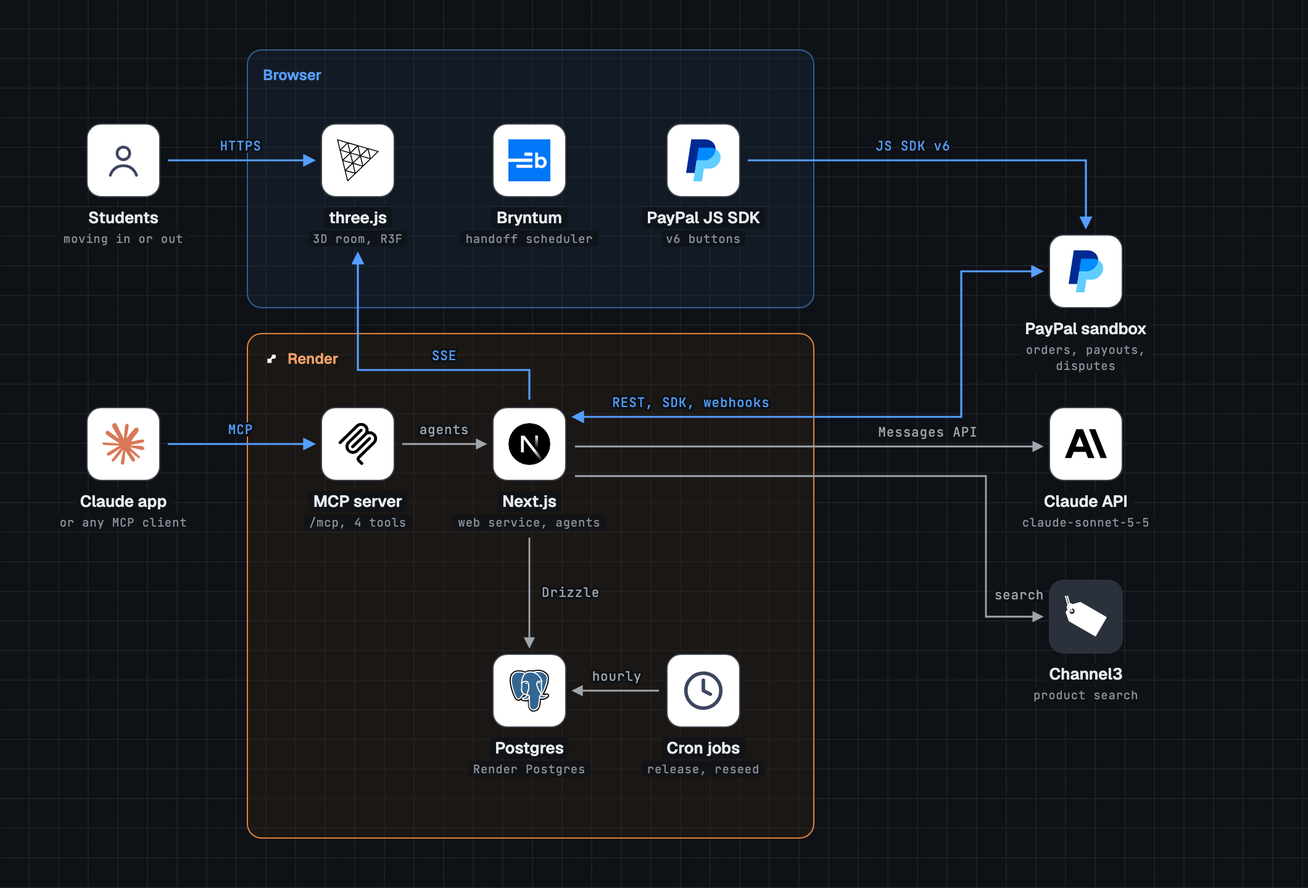
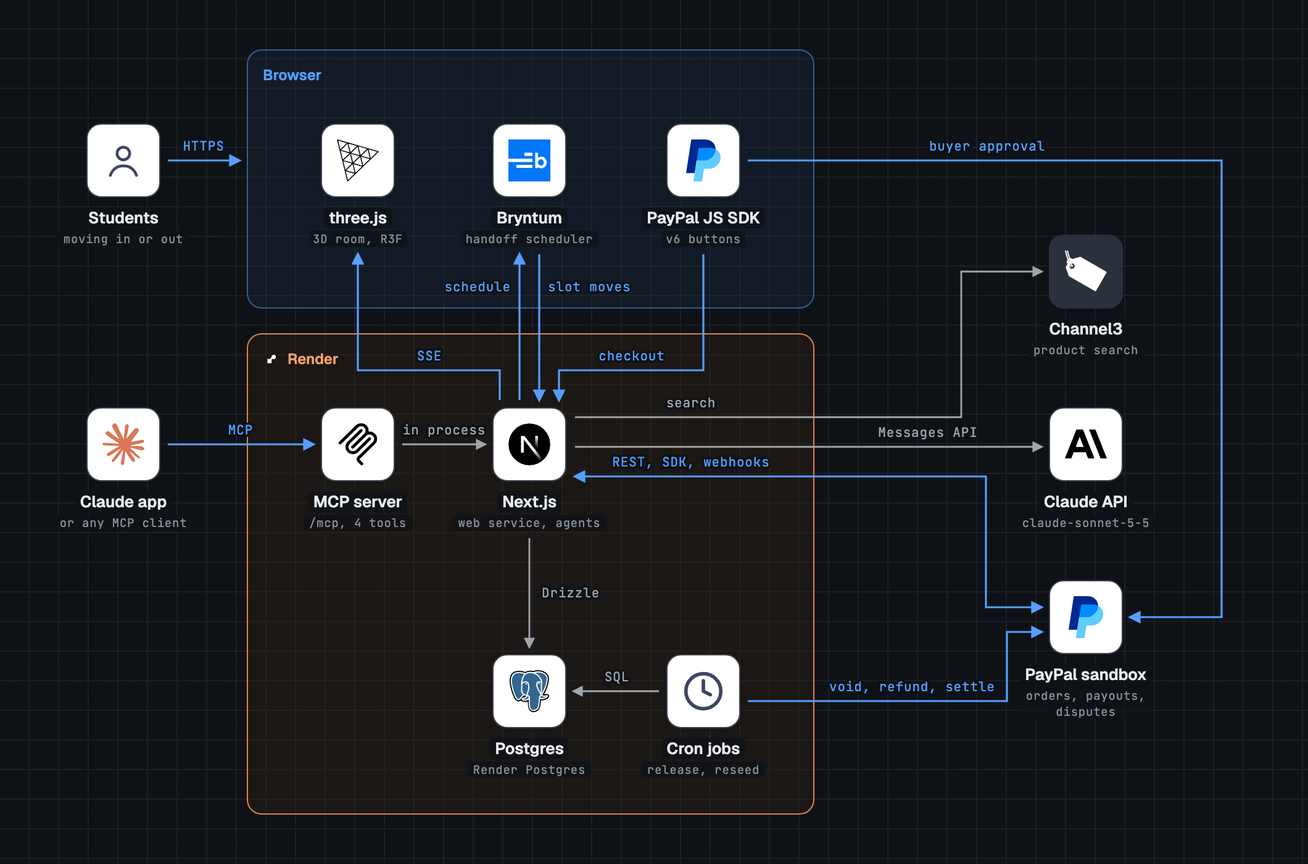
Tighten the README and redraw the stack diagram from the code

diff --git a/README.md b/README.md
@@ -2,11 +2,11 @@
 
 Turning move-out season into move-in opportunities.
 
-Roomover is a campus marketplace that passes furniture and dorm essentials from students who move out at the end of a term to the students who move in next. AI agents built on Anthropic's Claude models furnish the arriving student's room in 3D and negotiate with each seller's agent. One approval in PayPal pays every seller, PayPal holds the money until a photo check at handoff, and PayPal Payouts then pays each seller their share.
+Roomover is a campus marketplace that passes furniture and dorm essentials from students who move out at the end of a term to the students who move in next, even when the two never share a day on campus. AI agents built on Anthropic's Claude models furnish the arriving student's room in 3D and negotiate with each seller's agent, and PayPal holds the student's one payment through a photo check at handoff before PayPal Payouts pays every seller.
 
 <picture>
   <source media="(prefers-color-scheme: dark)" srcset="docs/stack-dark.png">
-  <img alt="Roomover architecture" src="docs/stack-light.png">
+  <img alt="Roomover architecture. Students use the browser, where three.js draws the 3D room from server sent events, the Bryntum schedule reads slots from Next.js and posts slot moves back, and the PayPal JS SDK buttons call Next.js for checkout and send the buyer's approval to PayPal. The Claude app or any MCP client reaches the MCP server, which runs inside the Next.js service on Render. Next.js calls Channel3 search, the Claude Messages API, and PayPal through REST, the Server SDK, and webhooks, and stores everything in Render Postgres. Two Render cron jobs write to Postgres, and the release job voids, refunds, and settles through PayPal." src="docs/stack-light.png">
 </picture>
 
 ## Links
@@ -17,6 +17,7 @@ Roomover is a campus marketplace that passes furniture and dorm essentials from 
 | Demo video (YouTube) | **VIDEO LINK GOES HERE AFTER UPLOAD** |
 | Fastest path for judges | [Four steps](#fastest-path-for-judges) |
 | Test accounts for judges | [Test accounts](#test-accounts-for-judges) |
+| Proof on the PayPal sandbox | [Real sandbox IDs](#real-sandbox-ids) |
 | Model Context Protocol (MCP) server for AI assistants | `https://roomover.onrender.com/mcp` |
 
 ## The problem
@@ -37,7 +38,7 @@ xychart-beta
     bar [16.2, 44, 250]
 ```
 
-Campus resale apps already exist, and they all depend on the buyer and the seller meeting in person to swap the item and the money. The student who leaves in May and the student who arrives in late summer are never on campus at the same time, so most of this supply never reaches its next owner. Roomover closes that gap with PayPal. The arriving student pays when the plan is ready, PayPal holds the money across the gap, and each seller gets paid only after the item passes a photo check at handoff.
+Campus resale apps already exist, and they all depend on the buyer and the seller meeting in person to swap the item and the money. The student who leaves in May and the student who arrives in late summer are never on campus at the same time, so most of this supply never reaches its next owner. Roomover bridges that gap with PayPal. The arriving student pays once when the room is planned, PayPal holds the money across the gap, and each seller gets paid after the item passes a photo check at handoff.
 
 ### How Roomover differs
 
@@ -49,9 +50,9 @@ Campus resale apps already exist, and they all depend on the buyer and the selle
 
 ## How it works
 
-Roomover runs three flows at the fictional Lakeshore University, whose rooms follow the sizes of real residence hall rooms. Ava is leaving and sells her things. Jordan is arriving at Harbor Hall 214 with a $150 budget. Ava, Jun, Marcus, Sofia, and Lea list 24 items between them.
+Roomover runs three flows at the fictional Lakeshore University, whose rooms follow the sizes of real residence hall rooms. Ava, Jun, Marcus, Sofia, and Lea are leaving and list 24 items between them. Jordan is arriving at Harbor Hall 214 with a $150 budget.
 
-Two real runs appear below. The recorded Harbor Hall plan is the cart the buyer agent negotiated for "$150, cozy, I study late", 6 items from 4 students for $107. The handoff demo plan is a fixed cart from all five sellers that a script builds for the handoff tests and the video, with $144 charged and $139 paid out after one torn chair. A judge's own handoff pays every seller in the cart the agent built.
+The video and the Furnish images follow the Harbor Hall plan that the buyer agent negotiated for "$150, cozy, I study late", which holds 6 items from 4 students for $107. The handoff GIF and the schedule image show the handoff demo plan. A script builds this fixed cart from all five sellers for the handoff tests, and its real sandbox run charged $144 and paid out $139 after one torn chair. A judge's own handoff pays every seller in the cart the agent built.
 
 ### 1. Sell: a leaving student lists an item from one photo
 
@@ -79,11 +80,11 @@ sequenceDiagram
     Ava->>R: Confirm the price and the floor, then list
 ```
 
-### 2. Furnish: the room fills itself, and one PayPal approval pays every seller in the cart
+### 2. Furnish: the room fills itself, and one PayPal approval covers the whole cart
 
 <img alt="Harbor Hall 214 fills item by item while the panel reports each seller agent's counteroffer." src="docs/furnish.gif" width="900">
 
-Jordan types "$150, cozy, I study late". The buyer agent reads the room size and the hall rules, searches the listings, and negotiates with each seller's agent over price and handoff slot. Every item it places lands in the 3D room as it goes, streamed to the browser over server sent events (SSE). When no used item fits a need, Channel3 supplies a new product that fits the size and the budget. The recorded Harbor Hall plan ends with 6 items from 4 students for $107, $260.97 less than the cheapest comparable new items on Channel3.
+Jordan types "$150, cozy, I study late". The buyer agent reads the room size and the hall rules, searches the listings, and places each item while code checks the fit, the rules, and the budget. Every placed item lands in the 3D room as it goes, streamed to the browser over server sent events (SSE). The agent then offers each seller's agent a price and a handoff slot, the seller agents answer in parallel, and code holds every answer between the seller's floor and the asking price. When no used item fits a need, Channel3 supplies a new product that fits the size and the budget. The Harbor Hall plan ends at $107, and Channel3's cheapest comparable new items would cost $260.97 more. The GIF runs on recorded answers, where yellow buttons stand in for PayPal's, and the hosted demo renders PayPal's own JavaScript software development kit (SDK) v6 buttons.
 
 <img alt="The ready room with a navy PayPal card that says PayPal holds your $107 until handoff." src="docs/paypal-hold.png" width="900">
 
@@ -98,24 +99,32 @@ sequenceDiagram
     participant P as PayPal
     J->>R: "$150, cozy, I study late"
     R->>B: Room size, hall rules, budget
-    B->>R: search_listings and check_fit
-    B->>S: make_offer with a price and a handoff slot
-    S-->>B: answer_offer, which code clamps to the seller's floor
-    B->>R: place_item
+    B->>R: search_listings, then place_item
+    R->>R: Check the fit, the hall rules, and the budget
     R-->>J: The item lands in the 3D room over SSE
-    B->>C3: search_new_products for a gap
+    B->>R: make_offer with a price and a handoff slot
+    R->>S: The offer, to each seller's agent in parallel
+    S-->>R: answer_offer
+    R->>R: Hold each answer between the floor and the asking price
+    R-->>B: Accepted, countered, or declined
+    B->>R: respond_to_offer on each counter
+    opt No used item fits a need
+        B->>R: search_new_products
+        R->>C3: Text search filtered by price and size
+    end
     B->>R: create_checkout
     R->>P: Orders v2 create with PayPal-Request-Id
+    R->>C3: Price comparable new items for the savings line
     J->>P: Approve with PayPal or Pay Later
-    R->>P: Authorize the order
-    P-->>R: Webhook confirms the authorization
+    R->>P: Authorize the order, or capture it when a handoff is past 29 days
+    P-->>R: Webhook confirms the authorization or the capture
 ```
 
 ### 3. Handoff: a photo check per item, then PayPal pays every seller
 
 <img alt="The handoff demo plan. The verifier finds a new 3 cm tear in Marcus's chair, Jordan pays $30 of $35, and each seller's payout arrives one by one." src="docs/handoff.gif" width="900">
 
-At handoff, Jordan photographs each item. The verifier agent compares the photo with the listing photos, and code turns its finding into an amount. In the handoff demo plan, Marcus's mesh desk chair shows a new 3 cm tear, so Jordan pays $30 of the $35. After the last item, Roomover captures each kept item from the authorization and sends one payout batch to every seller in the cart, $139 to the five sellers of the demo plan. A dispute opened later in PayPal comes back to the verifier, which answers with the handoff record.
+At handoff, Jordan photographs each item. The verifier agent compares the photo with the listing photos, and the money policy in code turns its finding into an amount. In the handoff demo plan, Marcus's mesh desk chair shows a new 3 cm tear, so Jordan pays $30 of the $35. After the last item, settlement captures each kept item from the authorization and sends one PayPal Payouts batch with an item for each seller in the cart. The demo plan's run paid $139 to its five sellers this way. A dispute the buyer opens later in PayPal comes back to the verifier agent, and Roomover answers with one message in the inquiry stage and with evidence after escalation.
 
 ```mermaid
 sequenceDiagram
@@ -126,40 +135,60 @@ sequenceDiagram
     participant P as PayPal
     loop Each item
         J->>R: Handoff photo
-        R->>V: compare_photos against the listing photos
-        V-->>R: Finding, for example a new 3 cm tear
+        R->>V: Handoff photo and the listing photos
+        V-->>R: compare_photos finding, for example a new 3 cm tear
         R->>R: Money policy sets the amount, $30 of $35
         J->>R: Confirm, pay $30
     end
-    R->>P: Payments v2 capture per item, final_capture on the last
+    R->>P: Payments v2 capture per kept item, final_capture on the last
     R->>P: Payouts batch with one item per seller
     P-->>R: Webhooks for captures and payout items
-    R-->>J: One payout to every seller in the cart
+    R-->>J: Each seller's payout appears as PayPal reports it
     opt The buyer opens a dispute
-        P-->>R: CUSTOMER.DISPUTE.CREATED webhook
-        R->>P: Agent Toolkit reads the dispute, the order, and the transaction
-        R->>P: Inquiry stage, one send-message with the handoff facts
-        R->>P: After escalation, provide-evidence with photos and the handoff record
+        P-->>R: CUSTOMER.DISPUTE.CREATED or UPDATED webhook
+        R->>P: Agent Toolkit get_dispute
+        opt Inquiry stage with a send_message link
+            R->>V: Facts code built from the order and the handoff
+            V-->>R: write_inquiry_message
+            R->>P: send-message, once per dispute
+        end
+        opt Code finds evidence due after escalation
+            R->>V: Facts and three reads bound to this dispute
+            V->>R: get_dispute, get_order, list_transactions
+            R->>P: Agent Toolkit reads
+            V-->>R: write_dispute_note
+            R->>P: provide-evidence with photos and the handoff record PDF
+        end
     end
 ```
 
-The schedule on the Handoff screen shows each seller's move out window, Jordan's move in, and the handoff slot each pair of agents agreed on. Students can drag a slot to another time that both windows allow.
+The [schedule](#bryntum) on the Handoff screen shows each seller's move out window, Jordan's move in, and the handoff slot each pair of agents agreed on, and a student can drag a slot to another time both windows allow.
 
 ## PayPal integration
 
-PayPal runs the whole money path, from the seller's login to the dispute after handoff, through PayPal's REST APIs and software development kits (SDKs). Every money moving call runs in Roomover's own code with amounts computed in code. Every money moving write (order create, authorize, capture, void, reauthorize, refund, and payout) sends a `PayPal-Request-Id` built from Roomover's own record IDs, such as `rmv.capture.<order item>.<attempt>`. In settlement and the hourly release, a retry after a timeout or an unreadable answer sends the same key, so PayPal replays its first answer, and a retry after PayPal refused the write sends the record's next attempt. A declined approval cancels the order, so the student's next checkout starts a new order with keys of its own. The two dispute calls, provide-evidence and send-message, take no key, so a conditional update on the dispute row lets each one go out once.
+PayPal runs the money path from the seller's login through the dispute after handoff. Roomover's server code calls the PayPal Server SDK for TypeScript, PayPal's REST APIs, and the PayPal Agent Toolkit, and the browser renders the PayPal JavaScript SDK v6 buttons. Code computes every amount. Every money moving write (order create, authorize, capture, void, reauthorize, refund, and payout) sends a `PayPal-Request-Id` built from Roomover's own record IDs, such as `rmv.capture.<order item>.<attempt>`.
 
 | Capability | PayPal product | Where Roomover uses it | Files | Proof from the sandbox |
 | --- | --- | --- | --- | --- |
 | Seller onboarding | Log in with PayPal | Identity and the email payouts go to | `lib/paypal/rest/identity.ts`, `lib/sell/login.ts`, `app/api/auth/paypal/` | Seller 1 signs in on the hosted Sell screen |
 | Checkout | Orders v2 and JavaScript SDK v6 buttons | One approval for a cart from several sellers, authorized or captured on approval | `lib/paypal/server-sdk/orders.ts`, `lib/checkout/prepare.ts`, `lib/checkout/approve.ts`, `components/paypal/paypal-checkout.tsx` | Order `4BJ62082TS2591355` for $144 (handoff demo plan) |
 | Pay in installments | Pay Later (Pay in 4) | The Pay Later button and message at checkout | `components/paypal/paypal-checkout.tsx`, `components/paypal/sdk-v6.ts` | The $107 cart shows 4 payments of $26.75 |
-| Hold and settle | Orders v2 authorize at approval, then Payments v2 capture, partial capture, void, reauthorize, and refund | Per item settlement after the photo check | `lib/paypal/server-sdk/payments.ts`, `lib/handoff/settle.ts`, `lib/domain/settlement.ts`, `lib/handoff/release.ts` | Authorization `87S91919A36663839` with five captures for $139. In capture mode, capture `4LF69479JL425463Y` and refund `3Y551341LC337200B` |
+| Hold and settle | Orders v2 authorize or capture at approval, then Payments v2 capture, partial capture, void, reauthorize, and refund | Per item settlement after the photo check | `lib/paypal/server-sdk/payments.ts`, `lib/handoff/settle.ts`, `lib/domain/settlement.ts`, `lib/handoff/release.ts` | Authorization `87S91919A36663839` with five captures for $139. In capture mode, capture `4LF69479JL425463Y` and refund `3Y551341LC337200B` |
 | Seller payouts | Payouts (batch) | One batch per settlement | `lib/paypal/rest/payouts.ts`, `lib/handoff/payouts.ts`, `lib/domain/payout-state.ts` | Batch `D65SGN757KMKA`, $139 to 5 sellers |
 | Disputes | Disputes API | The inquiry message and the evidence the verifier assembles | `lib/paypal/rest/disputes.ts`, `lib/disputes/run.ts`, `lib/disputes/evidence.ts` | Dispute `PP-R-ACE-10197629`, resolved in the seller's favor |
 | Events | Webhooks with signature verification | Drive the state machines and the activity panel | `app/api/paypal/webhooks/route.ts`, `lib/paypal/rest/webhooks.ts`, `lib/paypal/webhooks/dispatch.ts` | Events `WH-3L121548ED733810T-55R95869ET117181H` and `WH-60G77830PR553712K-7TE52535X23651306` |
 | Agent tools | PayPal Agent Toolkit (TypeScript) | Read only lookups inside the verifier's dispute run | `lib/agents/tools/paypal-read.ts`, `lib/disputes/deps.ts` | `get_dispute`, `get_order`, and `list_transactions` on the dispute above |
 | Reporting | Transaction Search through the Agent Toolkit's `list_transactions` | The verifier reads the disputed transaction in its dispute run | `lib/agents/tools/paypal-read.ts`, `lib/disputes/deps.ts` | Seller transaction `8YE464155G502411H` |
+
+In settlement and the hourly release, PayPal's answer decides whether a retry reuses the key.
+
+| PayPal's answer to a keyed write | What Roomover does next |
+| --- | --- |
+| No answer, a 5xx, or a 429 | Sends the same key once more right away and keeps it for the next try, so PayPal replays its first answer if the write landed |
+| A 408, a 409, or a 2xx body Roomover cannot read | Keeps the key for the next try |
+| A 400, 401, 403, 404, or 422, or a capture that comes back `DECLINED` or `FAILED` | Moves the record to its next attempt, so the next try sends a new key |
+
+A declined approval cancels the order, so the student's next checkout starts a new order with keys of its own. The two dispute calls, `provide-evidence` and `send-message`, take no key, so a conditional update on the dispute row lets each one go out once.
 
 ### Payment mode
 
@@ -169,13 +198,14 @@ flowchart LR
     B -- yes --> C[AUTHORIZE and hold]
     B -- no --> D[CAPTURE now]
     C --> E[Photo check at handoff]
-    D --> E
-    E --> F[Capture kept items, final_capture on the last]
-    E --> G[Void or refund what the student turned down]
-    F --> H[One Payouts batch to every seller]
+    D --> F[Photo check at handoff]
+    E --> G[Capture kept items, final_capture on the last. Void when nothing is kept]
+    F --> H[Refund turned down items and price cuts]
+    G --> I[One Payouts batch to every seller]
+    H --> I
 ```
 
-An authorization lasts 29 days, so Roomover uses `AUTHORIZE` when every handoff in the order ends within 29 days of checkout and `CAPTURE` otherwise. A storage handoff months away captures at checkout and refunds any item the student turns down. Settlement captures each kept item with `final_capture` on the last one and voids the authorization only when nothing is kept. It reauthorizes at most once, and only from day 4 of an authorization, after PayPal's 3 day honor period. Reauthorization is implemented and unit tested, and no sandbox run has reached day 4, so no reauthorization ID exists. For US buyers, PayPal's [Pay Later overview](https://developer.paypal.com/pay-later/overview) lists Pay in 4 for purchases from $10 to $2,000 and Pay Monthly from $49 to $10,000.
+An authorization lasts 29 days, so Roomover uses `AUTHORIZE` when every handoff in the order ends within 29 days of checkout and `CAPTURE` otherwise. A storage handoff months away captures at checkout and refunds any item the student turns down. Settlement reauthorizes at most once, and only from day 4 of an authorization, after PayPal's 3 day honor period. Reauthorization is implemented and unit tested, and no sandbox run has reached day 4, so no reauthorization ID exists. For US buyers, PayPal's [Pay Later overview](https://developer.paypal.com/pay-later/overview) lists Pay in 4 for purchases from $10 to $2,000 and Pay Monthly from $49 to $10,000.
 
 ### Real sandbox IDs
 
@@ -184,8 +214,8 @@ Every ID below came from a real sandbox response.
 | Run | IDs |
 | --- | --- |
 | Handoff demo plan on Render, settled by webhook | Order `4BJ62082TS2591355`, authorization `87S91919A36663839`, payout batch `D65SGN757KMKA` for $139 |
-| Handoff demo plan on video, with the torn chair at $30 of $35 | Order `78E19905K1239093D`, authorization `49F41736WL517390H`, payout batch `SMBUWTGSLQG9J` |
-| Capture mode, a storage cart handed off in April 2027 with one item turned down | Order `4NJ97274JR406582M` for $73, capture `4LF69479JL425463Y`, refund `3Y551341LC337200B` of $10 for Ava's drawer tower, payout batch `8XRP3TRPXKKGG` of $63 to Ava and Marcus |
+| Handoff demo plan run locally, with the torn chair at $30 of $35 | Order `78E19905K1239093D`, authorization `49F41736WL517390H`, payout batch `SMBUWTGSLQG9J` |
+| Capture mode, a storage cart with April 2027 handoff slots and one item turned down | Order `4NJ97274JR406582M` for $73, capture `4LF69479JL425463Y`, refund `3Y551341LC337200B` of $10 for Ava's drawer tower, payout batch `8XRP3TRPXKKGG` of $63 to Ava and Marcus |
 | Real dispute on the chair | `PP-R-ACE-10197629`, evidence of 3 documents in the chargeback stage, resolved `RESOLVED_SELLER_FAVOUR` |
 | The Claude app over MCP | Plan `ef094b22-8462-45b8-8806-2c8f05b8b1f5`, $95 for 5 used items from 4 students, order `2V83399493834153N` |
 | Claude Code over MCP, approved from the preview link | Order `5YK1548532769840E`, authorization `66J9960711469954E` |
@@ -206,7 +236,7 @@ Every agent runs on `claude-sonnet-5-5` through the Claude Messages API with too
 | Seller agent | The leaving student | `describe_listing` with Channel3's candidates, `answer_offer` in negotiation | The price cap at 70 percent of new, and every answer held between the floor and the asking price. An answer that would sell under the floor becomes a counter at the asking price |
 | Verifier agent | Neither student | `compare_photos`, `write_dispute_note`, `write_inquiry_message`, and the Agent Toolkit's `get_dispute`, `get_order`, `list_transactions` | The money policy turns a finding into an amount. The note and the message may name only amounts code gave, and the message may not offer a refund or accept a claim |
 
-Negotiation runs through structured offers with a price, a handoff slot, and up to four listings in a bundle, for at most 3 rounds. The seller agents answer in parallel, and every offer and answer appears in the activity panel.
+Negotiation runs through structured offers with a price, a handoff slot, and up to four listings from one seller in a bundle, for at most 3 rounds. The seller agents answer in parallel, and every offer and answer appears in the activity panel.
 
 ### Guardrails
 
@@ -215,7 +245,7 @@ Negotiation runs through structured offers with a price, a handoff slot, and up 
 - Code parses every model output with the zod schema library for TypeScript, and an invalid answer gets one retry with the validation error. After a second invalid answer, the buyer agent, the Sell photo read, and the handoff photo check each show a failure the student can retry. An offer answer becomes a decline that code writes, and the dispute note and the inquiry message fall back to text that code writes.
 - The verifier cannot accept a dispute claim, offer a refund, or move money. Code checks its dispute note for any amount code did not give, and its inquiry message for those amounts and for any offer, refund, or accepted claim.
 - A seller's floor stays between the seller and code. No search result, activity line, MCP answer, or page shows it, and code puts a seller agent sentence that hints at it in its own words.
-- The demo caps its own use at 6 runs per browser and 15 per network an hour, and 400 Claude calls a day. When a web Furnish run would pass a cap, the room replays the recorded Harbor Hall run, and PayPal and everything after it stay live. Sell gives each photo at most 2 seller agent calls and each browser 20 photos a day, and every limit keys on the address Cloudflare reports in front of Render.
+- The demo caps its own use at 6 runs per browser and 15 per network an hour, and 400 Claude calls a day. Sell gives each photo at most 2 seller agent calls and each browser 20 photos a day. Every limit keys on the client address that Render's Cloudflare proxy writes.
 
 ### PayPal Agent Toolkit, read only
 
@@ -223,7 +253,7 @@ The verifier's dispute run reads the dispute, the PayPal order, and the disputed
 
 ### MCP server for outside assistants
 
-Roomover exposes a Model Context Protocol (MCP) server over streamable HTTP at `https://roomover.onrender.com/mcp`, so a general assistant can shop on a student's behalf.
+The MCP server at `https://roomover.onrender.com/mcp` speaks streamable HTTP, so a general assistant can shop on a student's behalf.
 
 | MCP tool | What it does |
 | --- | --- |
@@ -243,7 +273,7 @@ Roomover exposes a Model Context Protocol (MCP) server over streamable HTTP at `
 
 The first browser that approves the payment from a preview link takes the plan over for the handoff, and other browsers see the plan read only. The activity panel names the client from the `clientInfo` it sends. A session that arrives from Anthropic's published outbound addresses is the Claude app, since its connector reports the same `claude-code` name as Claude Code.
 
-Connect an assistant
+#### Connect an assistant
 
 1. **Claude app** (web or desktop, Pro or Max). Open Customize, then Connectors, then Add, then Add custom connector. Name it Roomover, paste `https://roomover.onrender.com/mcp`, choose no sign in, and press Add. In a new chat, turn Roomover on in the tools menu and send this request. "I am Jordan, moving into Harbor Hall 214 at Lakeshore University. Use Roomover to plan my room for "$150, cozy, I study late" and give me the PayPal link to approve it."
 2. **Claude Code**. Run `claude mcp add --transport http roomover https://roomover.onrender.com/mcp`, then send the same request.
@@ -267,21 +297,19 @@ Searches are cached by photo and by query, so a repeated demo run spends no cred
 
 ### Render
 
-Render is the cloud platform that runs the hosted demo.
+Render is the cloud platform that runs the hosted demo, and the blueprint in `render.yaml` declares every service below. Each secret's value lives only in the Render dashboard, and a push to `main` deploys.
 
 | Piece | What it runs |
 | --- | --- |
 | Web service `roomover` | The Next.js app, the agents, and the MCP server, Starter plan in Ohio, health check at `/api/health` that reports the deployed commit |
 | Postgres `roomover-db` | Every record, reached over the private network |
 | Pre-deploy command | `npm run db:migrate` applies new migrations before each deploy goes live |
-| Cron job `roomover-release` | Hourly, it voids demo holds that never reached a handoff, carries on settlements that stopped, and puts listings back on sale |
-| Cron job `roomover-reseed` | Daily, it moves the demo listing windows to the current campus day |
-
-The blueprint in `render.yaml` declares every service and keeps each secret's value in the Render dashboard. A push to `main` deploys.
+| Cron job `roomover-release` | Hourly. Voids or refunds demo holds that never reached a handoff, carries on settlements that stopped, and puts listings back on sale |
+| Cron job `roomover-reseed` | Daily. Moves the demo listing windows to the current campus day |
 
 ### Bryntum
 
-Bryntum makes JavaScript scheduling components, and its Scheduler draws the handoff schedule with each seller's move out window, the storage wait, Jordan's move in, and the agreed slots as keys a student can drag or move from the keyboard. The server checks every move against both windows and the authorization. Roomover runs the 45 day trial the hackathon offers participants, which shows a "Trial Version" watermark. The scheduler loads only when the schedule opens (`components/schedule/`).
+Bryntum makes JavaScript scheduling components, and its Scheduler draws the handoff schedule with each seller's move out window, the storage wait, Jordan's move in, and the agreed slots as keys a student can drag or move from the keyboard. The schedule reads its rows from the handoff view that Next.js serves, and each slot move posts to the handoff's slots route, where the server checks it against both windows and the authorization before it moves the handoff. Roomover runs the 45 day trial the hackathon offers participants, and the scheduler loads only when the schedule opens (`components/schedule/`).
 
 <img alt="The Handoff screen with the schedule open on the whole gap. Each seller's move out bar, the storage waits for Sofia and Lea, Jordan's move in, and five handoff slots as dark keys, under Bryntum's Trial Version watermark." src="docs/handoff-schedule.png" width="900">
 
@@ -307,14 +335,14 @@ The table below lists five lookups where the plugin changed the code.
 | Question | What the plugin showed | Change | File |
 | --- | --- | --- | --- |
 | Which PayPal APIs does the Server SDK cover? | Controllers for Orders, Payments, Transaction Search, OAuth with client credentials only, Subscriptions, and Vault | Payouts, Disputes, Webhooks, and Log in with PayPal run over REST | `lib/paypal/rest/` |
-| Can retries stay on for writes that carry a `PayPal-Request-Id`? | The retry interceptor retries every thrown error, and a stubbed 422 went out 3 times | Retries off, with a test that asserts one request per 422 | `lib/paypal/server-sdk/client.ts` |
-| What do timeout and retries default to? | A timeout of 0, so a call could wait forever | An explicit 20 second timeout | `lib/paypal/server-sdk/client.ts` |
+| Can retries stay on for writes that carry a `PayPal-Request-Id`, and what do timeouts default to? | The retry interceptor retries every thrown error, so a stubbed 422 went out 3 times, and the default timeout of 0 lets a call wait forever | SDK retries off with a test that asserts one request per 422, and an explicit 20 second timeout | `lib/paypal/server-sdk/client.ts` |
+| Which failures does the SDK throw, and what does a 409 mean for a keyed write? | Only non 2xx answers throw `ApiError`, and the capture error table documents 409 only as a conflict while processing the request | A 400, 401, 403, 404, or 422 moves the record to its next key, and a timeout, 5xx, 408, 409, or 429 keeps it | `lib/paypal/retry.ts` |
 | How does `final_capture` behave on an authorization? | `finalCapture` true closes the authorization | Only the last kept item sends `finalCapture` true | `lib/handoff/settle.ts` |
 | How long can an unapproved order wait? | 6 hours from creation to redirect the payer | A prepared order is reused for at most 5 hours, inside the 6 hour key retention for Orders | `lib/checkout/prepare.ts` |
 
 ## Architecture and data model
 
-One Next.js service on Render serves the pages, the API routes, the agents, the MCP server, and the PayPal webhook route. Domain logic lives in framework independent TypeScript modules, with state machines for orders, items, handoffs, payouts, and disputes, each covered by unit tests. Agent steps stream to the browser over server sent events (SSE).
+One Next.js service on Render serves the pages, the API routes, the agents, the MCP server, and the PayPal webhook route, and two cron jobs run the hourly release and the daily reseed. Domain logic lives in framework independent TypeScript modules with unit tests, among them the order and payout item state machines, the negotiation rounds, the settlement steps, and the money policy.
 
 | Folder | What it holds |
 | --- | --- |
@@ -322,9 +350,12 @@ One Next.js service on Render serves the pages, the API routes, the agents, the 
 | `components/` | The interface, the 3D room built with three.js and React Three Fiber, the schedule, and the PayPal buttons |
 | `lib/agents/` | The buyer, seller, and verifier agents, their prompts, and their tools |
 | `lib/paypal/` | The Server SDK wrappers, the REST clients, webhooks, and idempotency keys |
+| `lib/checkout/` | Order preparation, approval, and the checkout webhooks |
+| `lib/handoff/` | Photo checks, settlement, payouts, the release, and slot moves |
+| `lib/sell/` | The Sell flow from the PayPal login to the listing |
+| `lib/disputes/` | The dispute run, the evidence bundle, and the handoff record PDF |
 | `lib/channel3/` | Product identification and search |
 | `lib/domain/` | State machines, pricing, fit checks, money policy, and money math in integer cents |
-| `lib/disputes/` | The dispute run, the evidence bundle, and the handoff record PDF |
 | `lib/db/` | The Drizzle ORM schema and migrations |
 | `mcp/` | The MCP server and its four tools |
 | `scripts/` | Seed data, sandbox setup, and recorded runs |
@@ -343,7 +374,7 @@ erDiagram
     payouts ||--o{ payout_items : pays
     orders ||--o{ disputes : "disputed in"
     plans ||--o{ agent_runs : "planned by"
-    agent_runs ||--o{ agent_events : logs
+    plans ||--o{ agent_events : logs
     listings {
         uuid seller_id
         int price_cents
@@ -370,6 +401,7 @@ erDiagram
         text message_state
     }
     agent_events {
+        uuid run_id
         text agent
         text tool
         text summary
@@ -439,7 +471,7 @@ The hosted demo needs no sign up. Furnish runs as the demo student Jordan Ellis,
 
 1. Open [Furnish](https://roomover.onrender.com/furnish), keep Harbor Hall 214 and "$150, cozy, I study late", and press Plan my room. The room fills in about 30 seconds.
 2. Press the PayPal button, sign in as the judge buyer below, and approve.
-3. Press Go to handoff, then for each item press Use a sample photo and confirm the amount.
+3. Press Go to handoff, then for each item press Use a sample photo and confirm the amount. An item that also offers Sample with a new tear shows how the verifier and the money policy price new damage.
 4. Sellers paid fills with each seller's payout as PayPal reports it.
 
 | Account | Email | Password | What it lets a judge try |
@@ -453,20 +485,18 @@ A paid demo order that never reaches a handoff is released within about 3 hours,
 ## Limitations and next steps
 
 - **Marketplace onboarding.** Holding funds between a buyer and a seller in production requires PayPal's marketplace onboarding. The demo runs entirely in the sandbox, collects into the platform's account, and pays sellers out with Payouts.
-- **No Venmo payouts.** The sandbox refuses Venmo payouts (debug ID `f271928c32152`), so every seller is paid to their PayPal email.
-- **Sellers are paid by email.** Sandbox userinfo returns no payer ID, so payouts go to the email from Log in with PayPal.
-- **Fees.** The platform absorbs PayPal's capture and payout fees, and each seller receives the full agreed price.
-- **Bryntum watermark.** The schedule runs on Bryntum's 45 day trial and shows its "Trial Version" watermark.
-- **Estimated floor sizes.** The double and the single room presets use estimated floor sizes. The apartment bedroom uses measured ones.
+- **Sellers are paid by email, never by Venmo.** Sandbox userinfo returns no payer ID, so payouts go to the email from Log in with PayPal, and the sandbox refuses Venmo payouts (debug ID `f271928c32152`).
+- **Fees and revenue.** The platform absorbs PayPal's capture and payout fees, and each seller receives the full agreed price. A small service fee on each order, or a partnership with a campus that pays for move out reuse, would fund Roomover. Neither is built in the demo.
 - **A buyer win does not recover the seller's payout.** In the demo the platform absorbs the refund. In production, Roomover would hold a reserve from each payout through the dispute window or offset the amount against the seller's next payout.
+- **A spent Claude budget replays a recorded run.** When the demo's daily Claude calls or an hourly limit would refuse a Furnish run, the room replays the recorded Harbor Hall run, and PayPal and everything after it stay live.
 - **MCP sessions live in memory.** The web service runs one instance, so a deploy or a restart ends open sessions and the client starts a new one.
+- **Bryntum watermark.** The schedule runs on Bryntum's 45 day trial and shows its "Trial Version" watermark.
+- **One campus, partly estimated.** Room presets cover one campus. The double and the single use estimated floor sizes, and the apartment bedroom uses measured ones.
 - **A new campus starts with no supply.** The launch path is a partnership with each university's move out reuse program and residence life office.
 - **The verifier's result is advisory.** The student confirms every decision at handoff, and disputes go through PayPal.
-- **A spent Claude budget replays a recorded run.** When the demo's daily Claude calls or an hourly limit would refuse a Furnish run, the room replays the recorded Harbor Hall run, and PayPal and everything after it stay live.
-- **How Roomover would earn money.** A small service fee on each order, or a partnership with a campus that pays for move out reuse, would fund it. Neither is built in the demo, where the platform absorbs PayPal's fees.
 
 ## License
 
 MIT. See [LICENSE](LICENSE).
 
-The listing and handoff photos are CC0 public domain works, credited in [`public/seed/listings/CREDITS.md`](public/seed/listings/CREDITS.md) and [`public/handoff-samples/CREDITS.md`](public/handoff-samples/CREDITS.md). The studio lighting is the CC0 "Studio Small 08" high dynamic range (HDR) image from Poly Haven, and the Recursive typeface is used under the SIL Open Font License. The PayPal monogram is a trademark of PayPal, Inc., shown only where PayPal processes a payment, under PayPal's brand guidelines.
+The listing, handoff, and Sell sample photos are CC0 public domain works, credited in [`public/seed/listings/CREDITS.md`](public/seed/listings/CREDITS.md), [`public/handoff-samples/CREDITS.md`](public/handoff-samples/CREDITS.md), and [`public/sell-samples/CREDITS.md`](public/sell-samples/CREDITS.md). The studio lighting is the CC0 "Studio Small 08" high dynamic range (HDR) image from Poly Haven, and the Recursive typeface is used under the SIL Open Font License. The PayPal monogram is a trademark of PayPal, Inc., shown only where PayPal processes a payment, under PayPal's brand guidelines.
